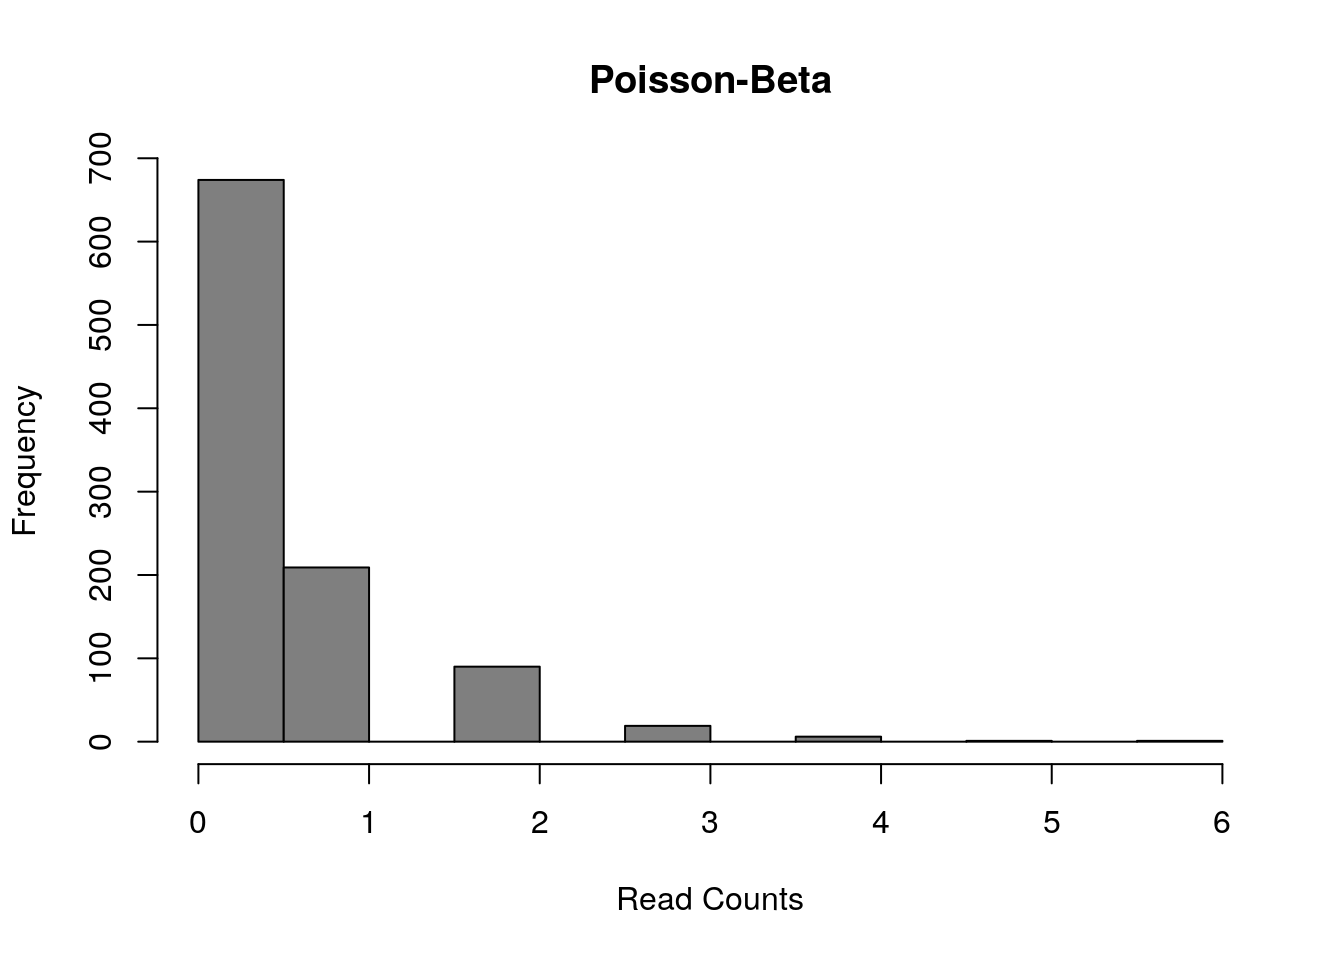
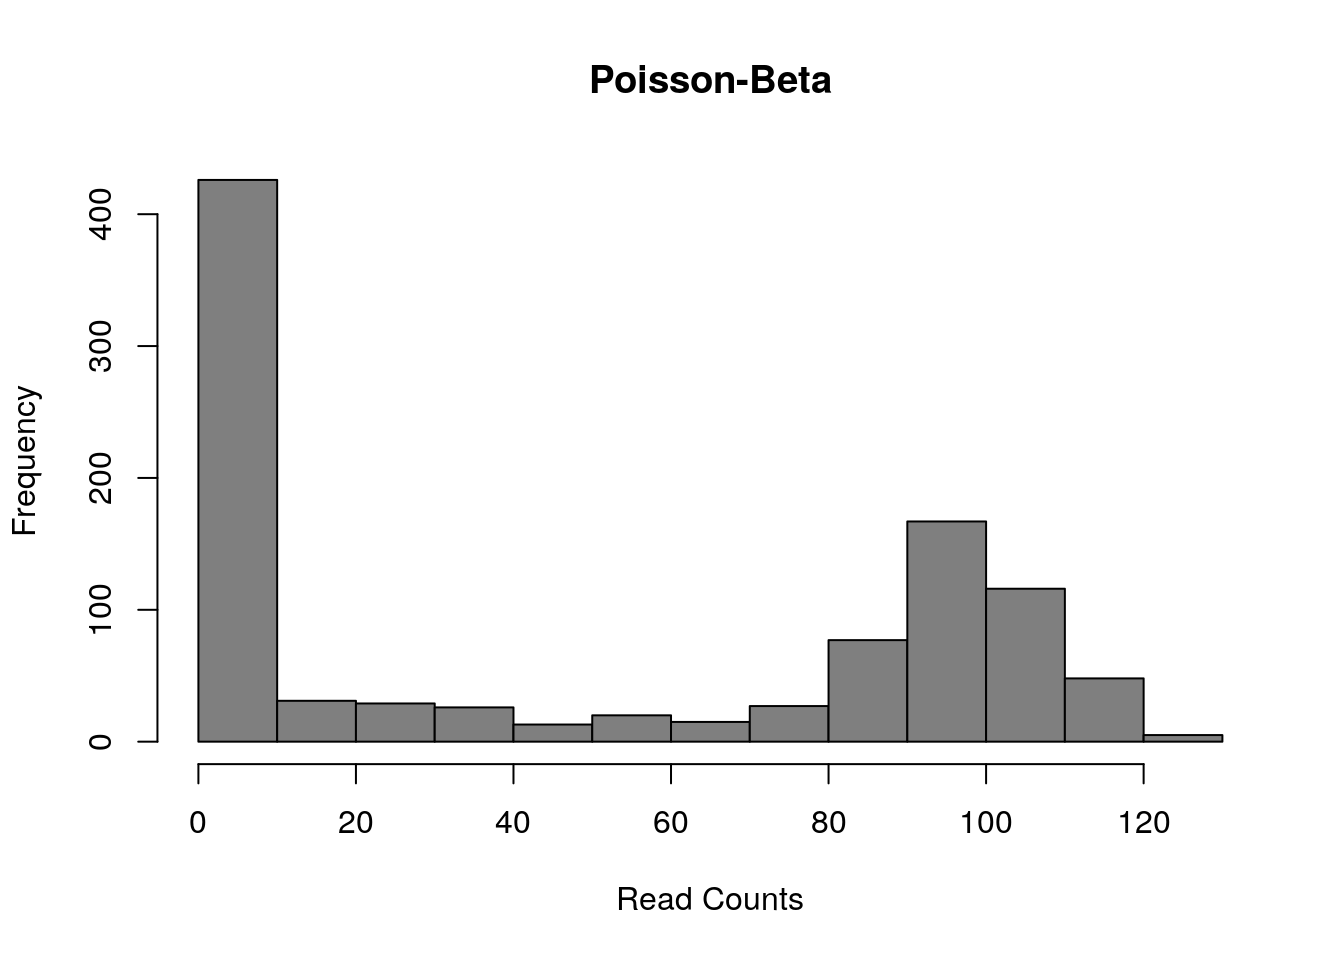
update the course website

diff --git a/docs/differential-expression-de-analysis.html b/docs/differential-expression-de-analysis.html
@@ -417,7 +417,7 @@ Figure 22.2: Zero-inflated Negative Binomial distribution
 b =<span class="st"> </span><span class="fl">0.1</span>
 g =<span class="st"> </span><span class="dv">100</span>
 lambdas =<span class="st"> </span><span class="kw">rbeta</span>(<span class="dv">1000</span>, a, b)
-counts =<span class="st"> </span><span class="kw">sapply</span>(lambdas, function(l) {<span class="kw">rpois</span>(<span class="dv">1</span>, <span class="dt">lambda=</span>l)})
+counts =<span class="st"> </span><span class="kw">sapply</span>(g*lambdas, function(l) {<span class="kw">rpois</span>(<span class="dv">1</span>, <span class="dt">lambda=</span>l)})
 <span class="kw">hist</span>(counts, <span class="dt">col=</span><span class="st">&quot;grey50&quot;</span>, <span class="dt">xlab=</span><span class="st">&quot;Read Counts&quot;</span>, <span class="dt">main=</span><span class="st">&quot;Poisson-Beta&quot;</span>)</code></pre></div>
 <p><img src="21-de-intro_files/figure-html/pois-beta-plot-1.png" width="672" style="display: block; margin: auto;" /> Mean: <span class="math inline">\(\mu = g \cdot a / (a + b)\)</span></p>
 <p>Variance: <span class="math inline">\(\sigma^2 = g^2 \cdot a \cdot b/((a + b + 1) \cdot (a + b)^2)\)</span></p>

diff --git a/docs/21-de-intro.md b/docs/21-de-intro.md
@@ -92,7 +92,7 @@ a = 0.1
 b = 0.1
 g = 100
 lambdas = rbeta(1000, a, b)
-counts = sapply(lambdas, function(l) {rpois(1, lambda=l)})
+counts = sapply(g*lambdas, function(l) {rpois(1, lambda=l)})
 hist(counts, col="grey50", xlab="Read Counts", main="Poisson-Beta")
 ```
 
